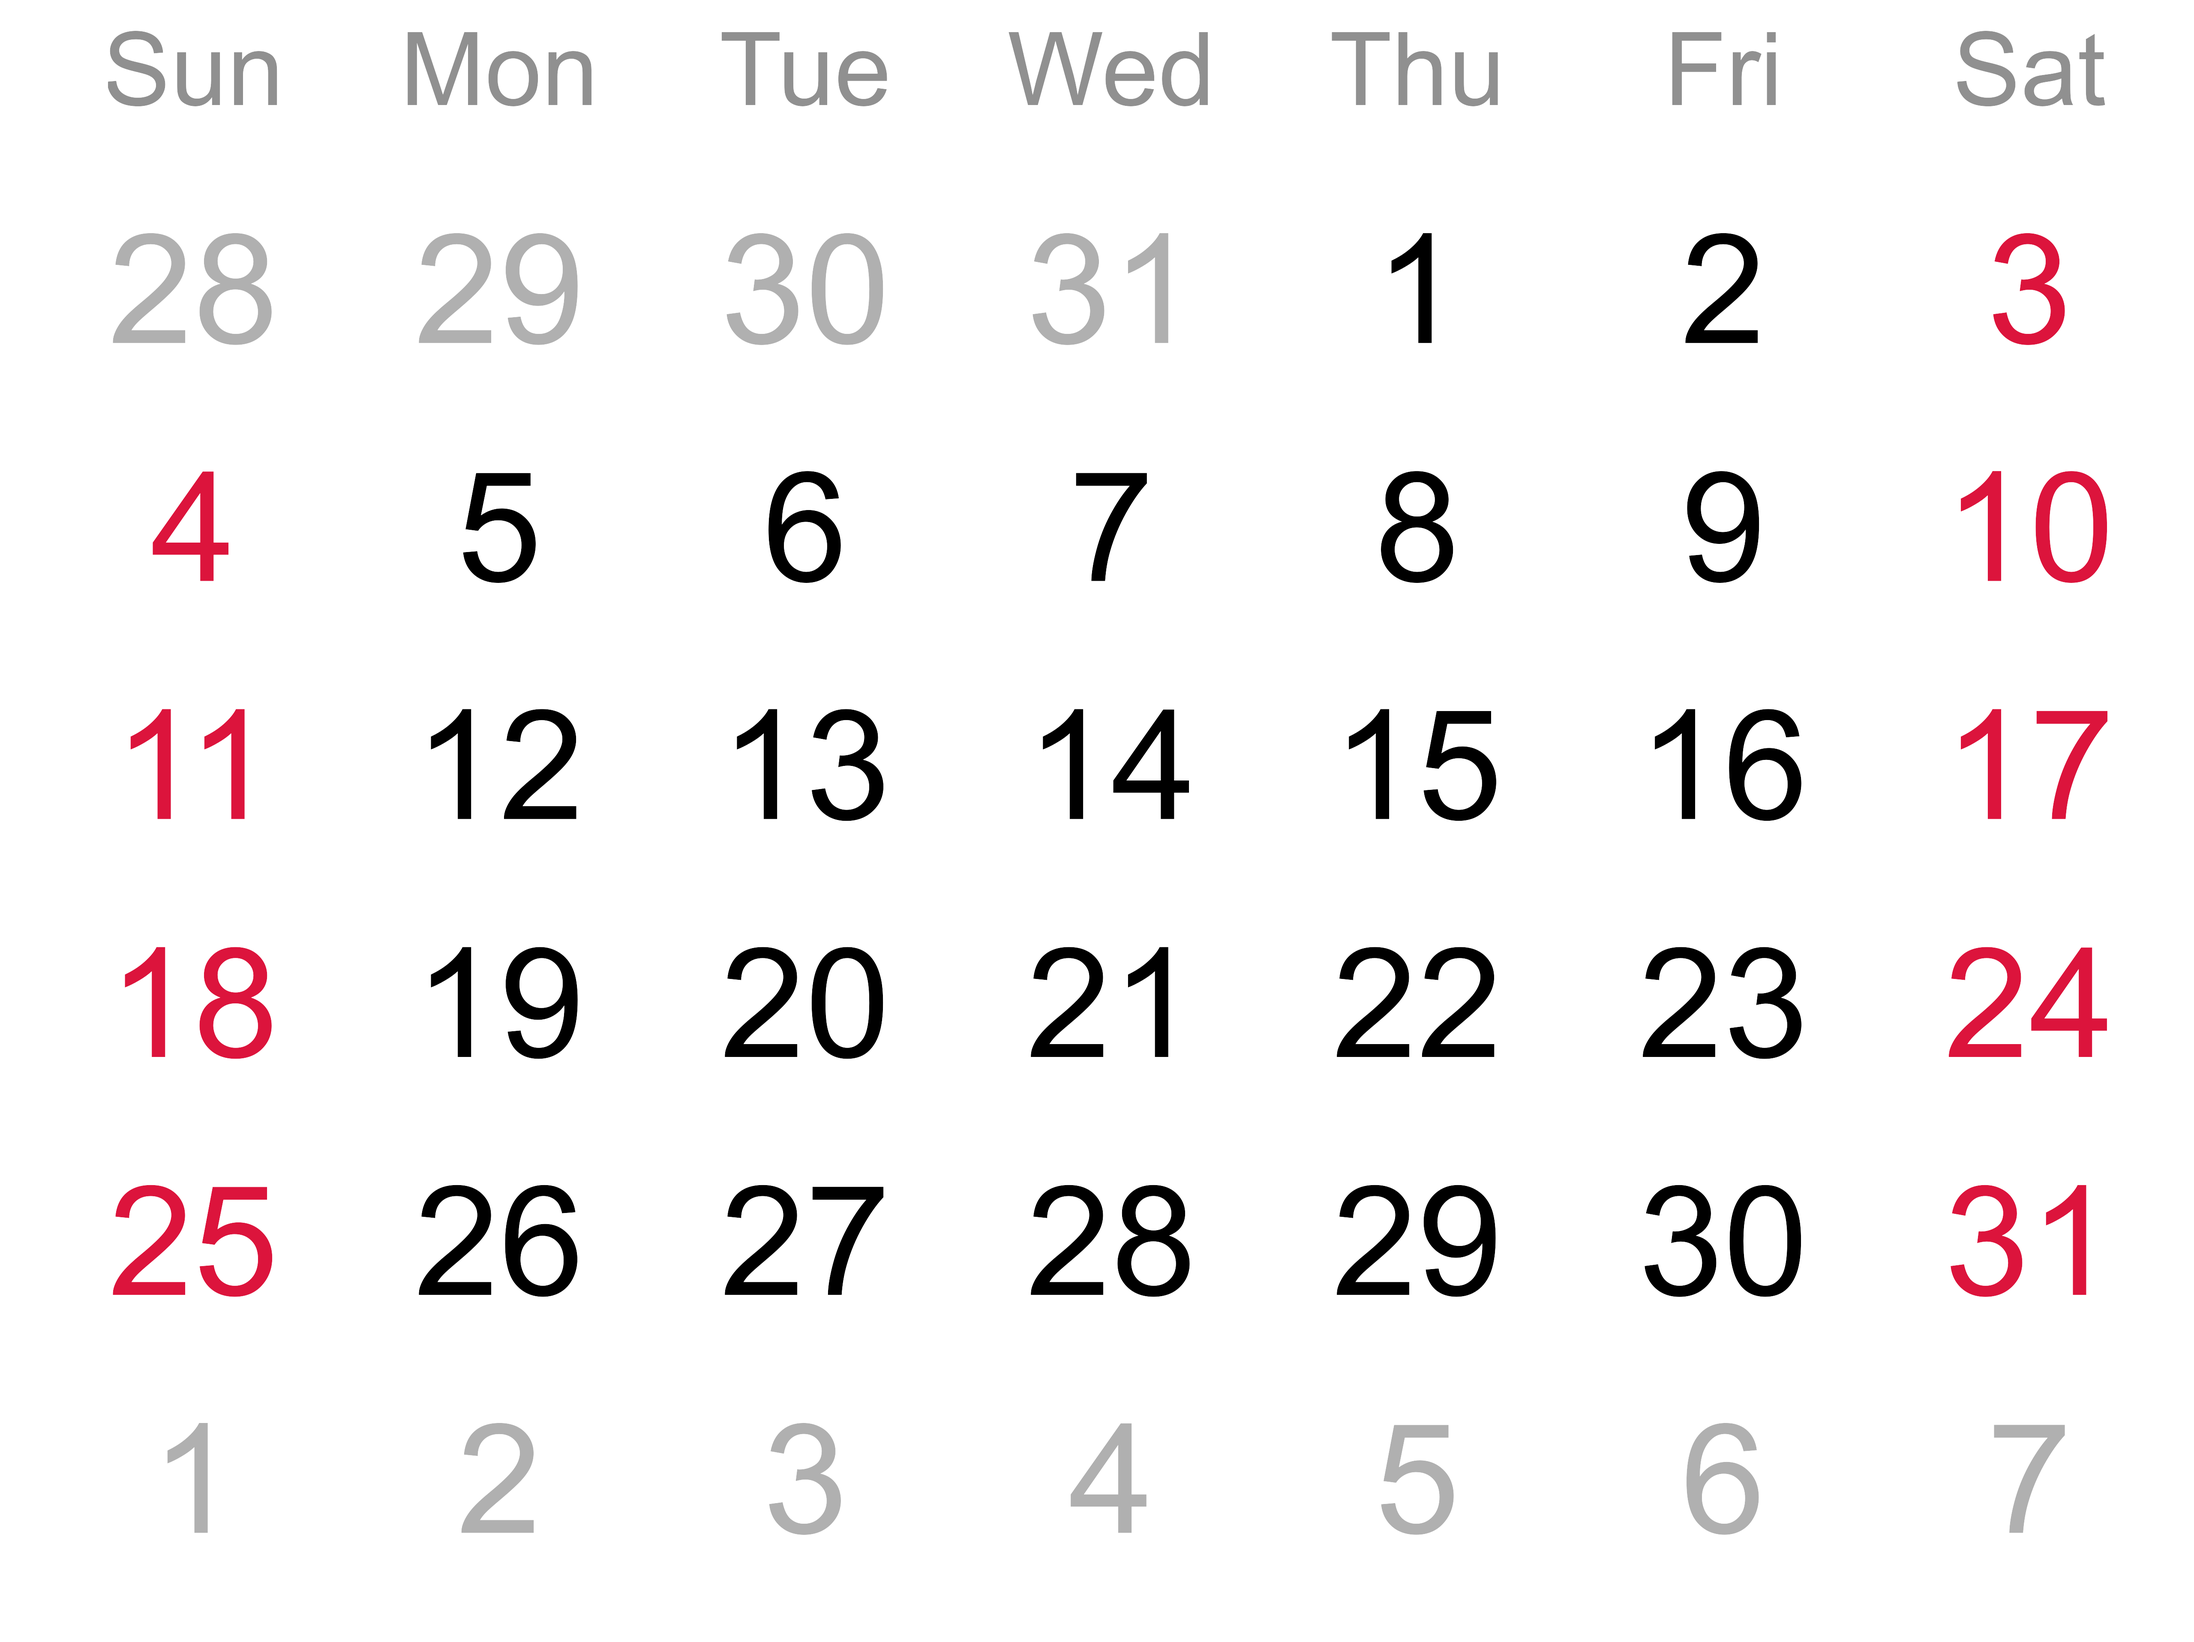
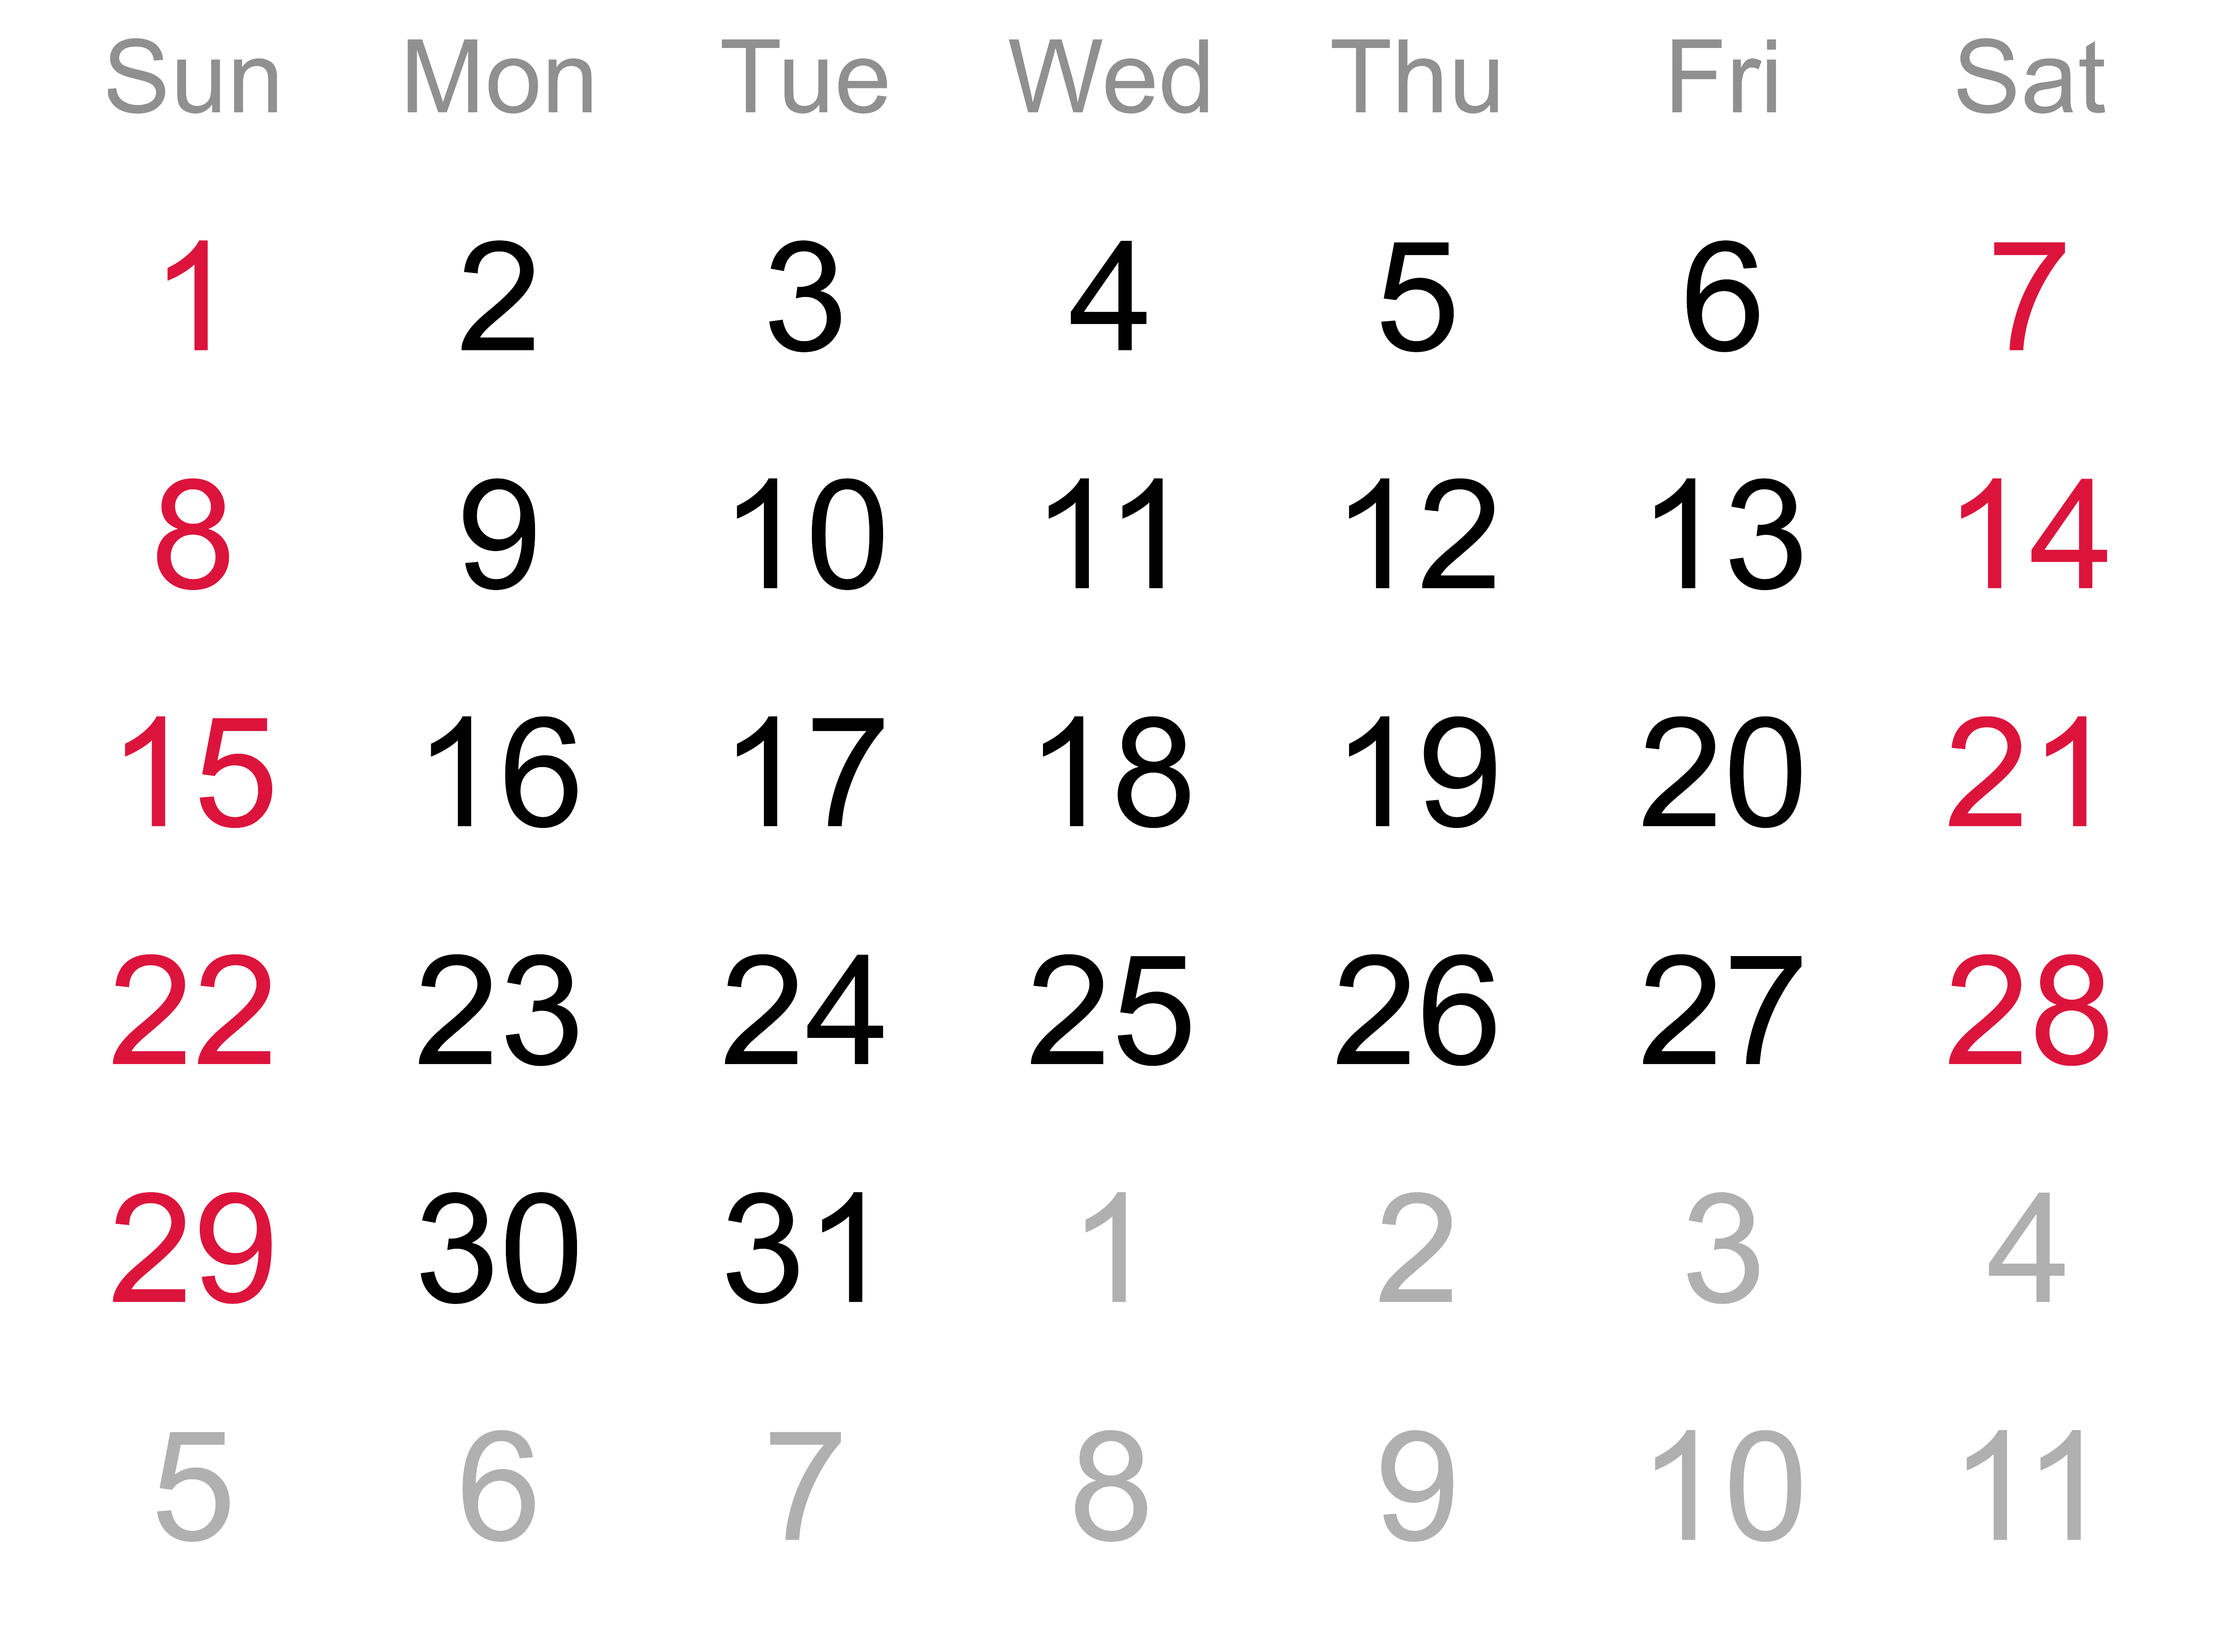
v 0.8
- готовый сайт

diff --git a/src/components/header/header.jsx b/src/components/header/header.jsx
@@ -1,14 +1,19 @@
 import "./header.css";
 import burgerIcon from "../../images/img_51584.png";
 import imageСouple from "../../images/1647038567_55-kartinkin-net-p-kartinki-dlya-par-69.jpg";
-import React, { useState } from "react";
+import React, { useState, useEffect } from "react";
 
 export default function Header() {
   const [isMenuOpen, setIsMenuOpen] = useState(false);
+  const [isLoaded, setIsLoaded] = useState(false);
 
   const toggleMenu = () => {
     setIsMenuOpen(!isMenuOpen);
   };
+
+  useEffect(() => {
+    setIsLoaded(true);
+  }, []);
 
   return (
     <div className="header">
@@ -42,14 +47,14 @@ export default function Header() {
             src={imageСouple}
             alt="фотография молодожен"
           />
-          <div className="header__cards">
+          <div className={`header__cards ${isLoaded ? 'show' : ''}`}>
             <p className="header__hello-parafraph">Рады пригласить вас на нашу свадьбу!</p>
             <h1 className="header__title">
-              Никита&
+              Артем&
               <br />
-              Виктория
+              Маргарита
             </h1>
-            <p className="header__date-paragraph">10/08/24</p>
+            <p className="header__date-paragraph">25/11/24</p>
           </div>
         </div>
       </div>

diff --git a/src/components/Schedule/Schedule.jsx b/src/components/Schedule/Schedule.jsx
@@ -13,12 +13,12 @@ const Schedule = () => {
 
     const events = [
         {
-            time: '14:00',
+            time: '15:30',
             title: 'Сбор гостей и фуршет',
             description: 'Время пролетит незаметно за общением с другими гостями. Кроме того, ожидание скрасит приветственный фуршет.',
         },
         {
-            time: '17:00',
+            time: '16:00',
             title: 'Торжественная церемония',
             description: 'Пожалуй, самый трогательный момент этого дня. Молодожены обмениваются кольцами в окружении самых близких.',
         },
@@ -37,7 +37,7 @@ const Schedule = () => {
     return (
         <div className="schedule">
             <h1 className="schedule-title">Расписание дня</h1>
-            <p className="schedule-date">Воскресенье, 28 сентября</p>
+            <p className="schedule-date">Среда, 25 декабря</p>
             <div className="schedule-events">
                 {events.map((event, index) => (
                     <div className="schedule-event" key={index} data-aos="fade-up" data-aos-delay={index * 300}>

diff --git a/src/components/OurStory/OurStory.jsx b/src/components/OurStory/OurStory.jsx
@@ -11,7 +11,7 @@ export default function OurStory() {
           <div className="our-story__flex-cart">
             <h4 className="our-story__title">Наша история</h4>
             <p className="our-story__paragraph-up">
-              Мы с Мишей ездили на работу в одно время, в одной маршрутке, с
+              Мы с Артемом ездили на работу в одно время, в одной маршрутке, с
               разницей в одну остановку. Как-то раз он решился познакомиться со
               мной, но я отказала!)
               <br />
@@ -22,7 +22,7 @@ export default function OurStory() {
               экскурсии, знакомить со своими родителями. После этого мы больше
               не расставались)
             </p>
-            <p className="our-story__paragraph-down">Алиса, невеста</p>
+            <p className="our-story__paragraph-down">Маргарита, невеста</p>
           </div>
         </div>
       </div>

diff --git a/src/components/Meeting/Meeting.jsx b/src/components/Meeting/Meeting.jsx
@@ -6,12 +6,12 @@ export default function Meeting() {
         <div className='meeting'>
             <div className='meeting__permissions'>
                 <h4 className='meeting__title'>До встречи в сентябре</h4>
-                <p className='meeting__paragraph-up'>Просим вас подтвердить свое присутствие не позднее 28 августа 2024 года </p>
+                <p className='meeting__paragraph-up'>Просим вас подтвердить свое присутствие не позднее 15 ноября 2024 года </p>
                 <a className='meeting__form-href' href="#">Заполни форму</a>
                 <p className='meeting__paragraph-down'>
                 По всем вопросам вы можете обращаться к нам или организатору
                 <br />
-                Никита <span className='meeting__span'>8-999-999-88-88</span>
+                Никита <span className='meeting__span'>8-888-888-88-88</span>
                 </p>
             </div>
         </div>

diff --git a/src/components/main/main.jsx b/src/components/main/main.jsx
@@ -1,6 +1,6 @@
 import "./main.css";
 
-import imageCloup from '../../images/cloup2.jpg'
+import imageCloup from '../../images/scale_1200.png'
 import imageCalendar from '../../images/calendar-of-august.png'
 import imageHeart from '../../images/head-icon.png'
 
@@ -19,7 +19,7 @@ export default function Main() {
         <div className="main__flex">
           <div className="main__card">
             <p className="main__paragraph-date">Дата проведения</p>
-            <p className="main__paragraph-august">Август</p>
+            <p className="main__paragraph-august">Декабрь</p>
             <img className="main__image-calendar" src={imageCalendar} alt="картинка календаря" />
             <img className="main__image-heart" src={imageHeart} alt="картинка выбранного числа(сердечко)" />
           </div>

diff --git a/src/components/Timer/Timer.jsx b/src/components/Timer/Timer.jsx
@@ -1,6 +1,6 @@
 import React, { useState, useEffect } from 'react';
 import './Timer.css'; // Подключаем CSS файл
-import backgroundImage from '../../images/bouquet.jpg'; // Импортируем изображение
+import backgroundImage from '../../images/timer.jpg'; // Импортируем изображение
 
 export default function Timer() {
     const calculateTimeLeft = () => {

diff --git a/src/components/header/header.css b/src/components/header/header.css
@@ -53,7 +53,15 @@
     display: flex;
     flex-direction: column;
     justify-content: space-between;
+    opacity: 0;
+    transform: translateY(20px);
+    transition: opacity 1s ease-out, transform 1s ease-out;
 }
+
+.header__cards.show {
+    opacity: 1;
+    transform: translateY(0);
+  }
 
 .header__hello-parafraph {
     color: #000000;

diff --git a/src/components/main/main.css b/src/components/main/main.css
@@ -76,8 +76,8 @@
     height: 35px;
     width: 35px;
     position: relative;
-    top: -139px;
-    left: 120px;
+    top: -87px;
+    left: 1px;
     animation: heartbeat 1s infinite;
 }
 
